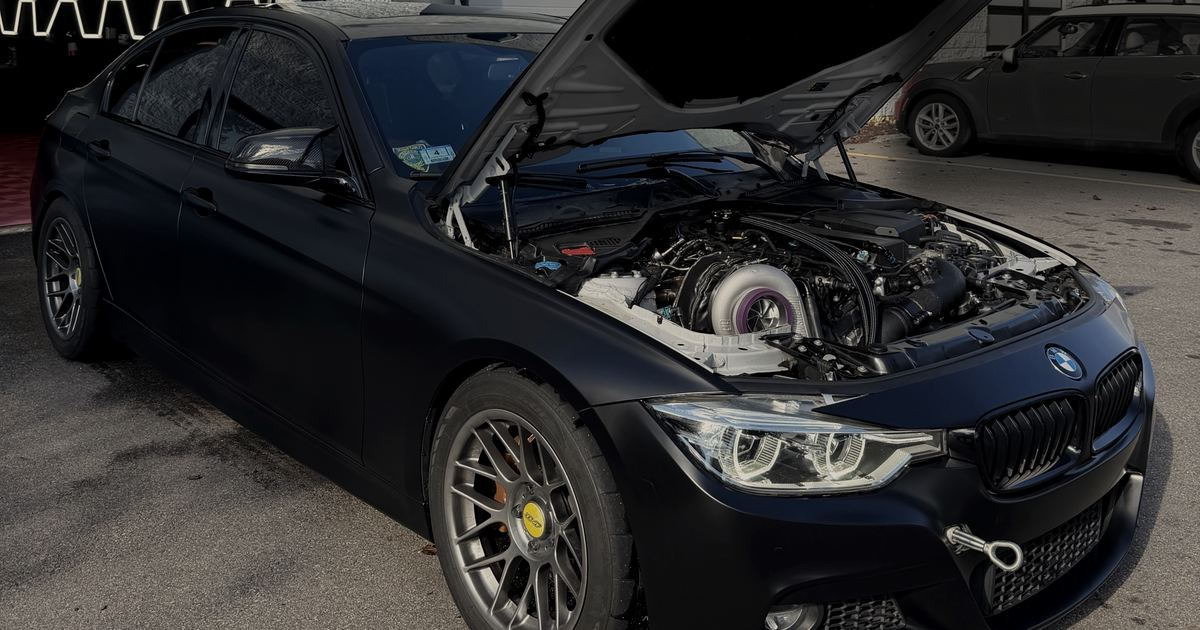
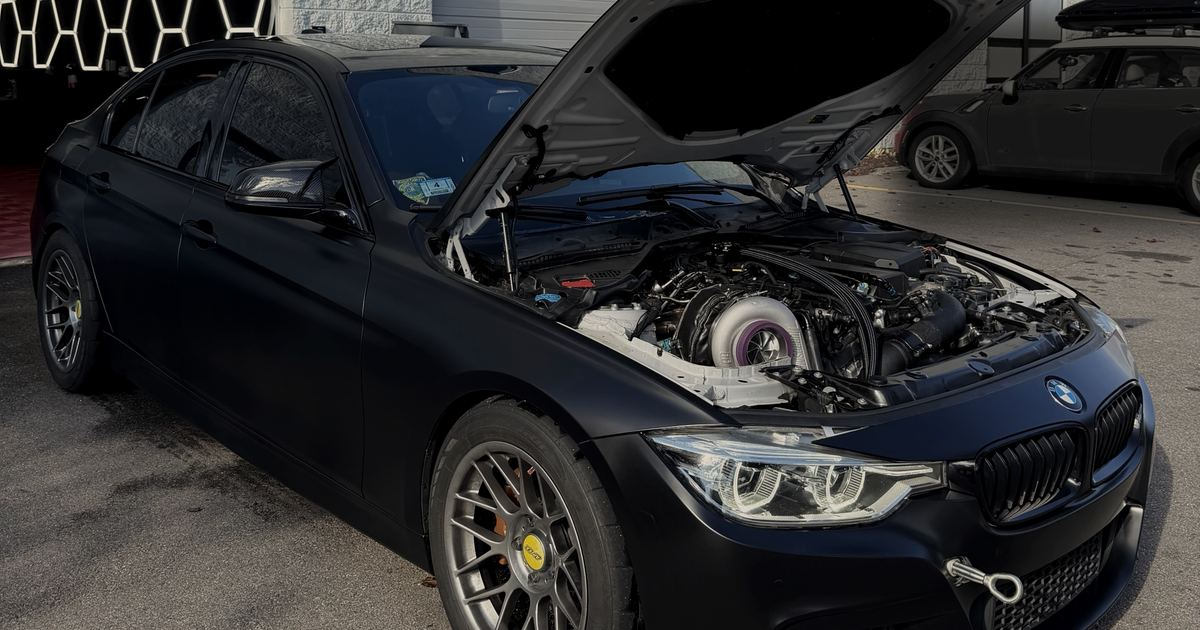
Builds: vertical 4:5 card crops, add M2 photos and draft data
Claude-Session: https://claude.ai/code/session_01FjDghypHAc3C4zegzep4wb

diff --git a/builds.py b/builds.py
@@ -30,4 +30,26 @@ BUILDS = [
     gallery=[], timeline=[], dyno=None,
     builder_link="#p=b58f&m=drag&hp=1300",
   ),
+  dict(
+    slug="m2-72mm",
+    name="M2 72mm",  # placeholder title, confirm
+    tag="Customer build",
+    car="2025 BMW M2 (G87)",
+    engine="S58",
+    color=None,
+    power=None, power_note=None,   # NEED: power figure and fuel
+    fuel=None, trans=None, use=None,  # NEED: trans (manual/auto, built?), use
+    story=None,
+    mods={
+      "Power": ["Precision 72mm single turbo", "Hood dump"],
+      "Engine": ["Cam lock"],  # confirm meaning
+      "Chassis": ["Beadlock wheels"],
+      # NEED: confirm which of the 340i's mods carry over (built engine, built trans, fuel system, port injection, Reflex+, flex fuel, coilovers, drag radials)
+    },
+    tuning="Custom calibration by an independent tuning specialist.",
+    images=dict(card="/img/builds/m2-72mm-card.jpg", hero="/img/builds/m2-72mm-hero.jpg", og="/img/builds/m2-72mm-og.jpg"),
+    gallery=[], timeline=[], dyno=None,
+    owner_ok=False,  # NEED before publishing
+    builder_link="#p=s58&m=drag",
+  ),
 ]
